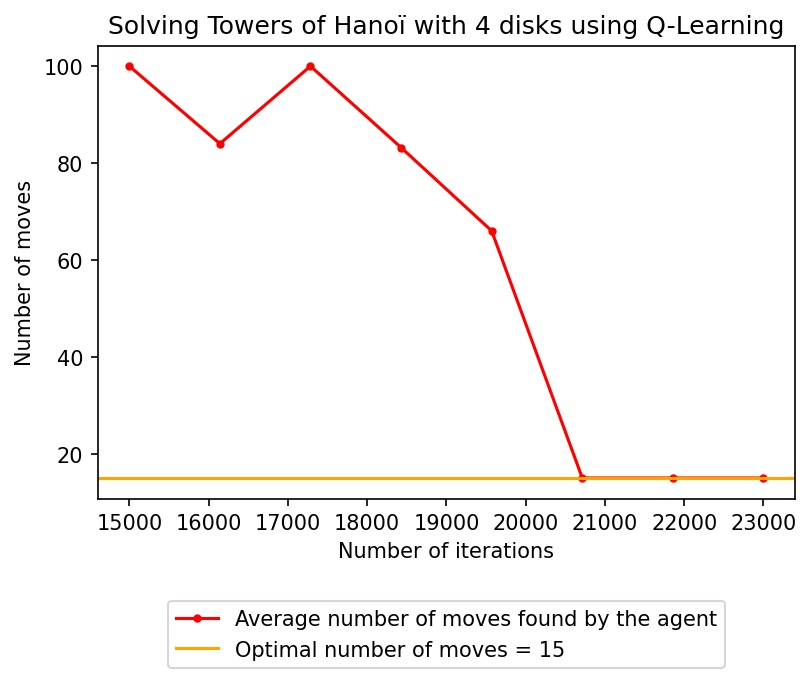
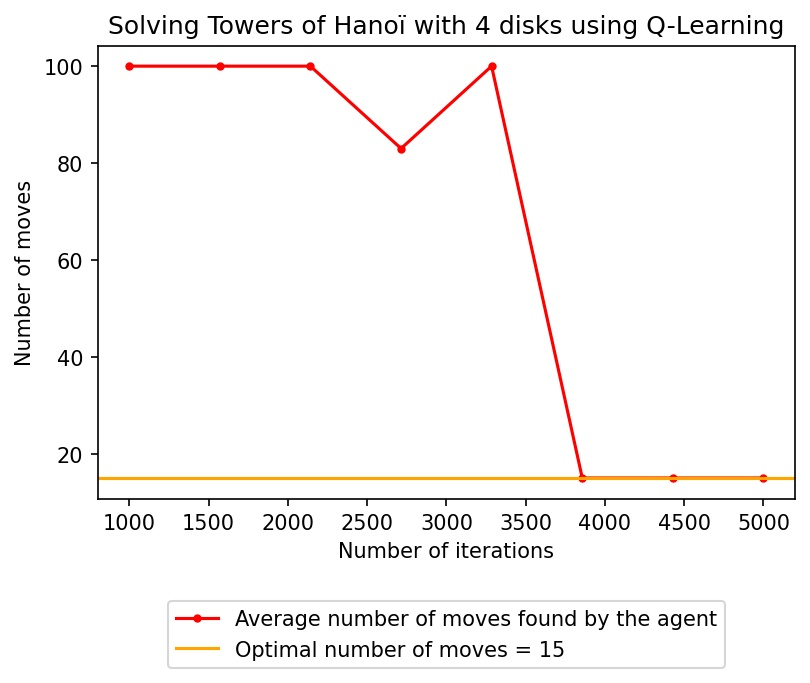
Learning rate optimization + better display of policy

diff --git a/Q-Learning/hanoi.py b/Q-Learning/hanoi.py
@@ -3,21 +3,26 @@ from enum import IntEnum
 from gamei import Gamei
 
 class Action(IntEnum):
-  R2LEFT  = 0
-  R2MID   = 1
-  L2RIGHT = 2
-  L2MID   = 3
-  M2RIGHT = 4
-  M2LEFT  = 5
+  L2MID   = 0
+  L2RIGHT = 1
+  M2LEFT  = 2
+  M2RIGHT = 3
+  R2MID   = 4
+  R2LEFT  = 5
 
 class Hanoi(Gamei):
   Gamei.nb_actions = 6
+
+  def actions_list():
+    return ["LEFT2MID", "LEFT2RIGHT", "MID2LEFT", "MID2RIGHT", "RIGHT2MID", "RIGHT2LEFT"]    
+
+    
   def __init__(self, N, state=None):
     if state is None:
       """
       A state is a tuple of size N. Each index corresponds
       to a disk, the first one is the smallest and the last one the biggest.
-      Each element corresponds to the pole where the disk at index i is located.
+      Each element corresponds to the peg where the disk at index i is located.
       """
       super().__init__(tuple([0] * N) )
     else:
@@ -30,19 +35,19 @@ class Hanoi(Gamei):
     self.final_state = tuple([2] * N)
     self.rewards[self.final_state] = 10
 
-    self.moves = [(0, 1), (0, 2), (1, 0), (1, 2), (2, 0), (2, 1)]
-    self.actions = [Action.L2MID, Action.L2RIGHT, Action.M2LEFT, Action.M2RIGHT, Action.R2LEFT, Action.R2MID]
+    self.moves = [(0, 1), (0, 2), (1, 0), (1, 2), (2, 1), (2, 0)]
+    self.actions = [Action.L2MID, Action.L2RIGHT, Action.M2LEFT, Action.M2RIGHT, Action.R2MID, Action.R2LEFT]
   
   def get_reward(self):
     return self.rewards[self.state]
   
-  def disc_on_pole(self, pole):
-    return [disc for disc in range(len(self.state)) if self.state[disc] == pole]
+  def disc_on_peg(self, peg):
+    return [disc for disc in range(len(self.state)) if self.state[disc] == peg]
 
   def is_move_allowed(self, move):
     disc_from, disc_to = None, None
-    disc_from = self.disc_on_pole(move[0])
-    disc_to = self.disc_on_pole(move[1])
+    disc_from = self.disc_on_peg(move[0])
+    disc_to = self.disc_on_peg(move[1])
 
     if disc_from == []:
       return False

diff --git a/Q-Learning/dungeon.py b/Q-Learning/dungeon.py
@@ -8,6 +8,10 @@ class Action(IntEnum):
 
 class Dungeon(Gamei):
   Gamei.nb_actions = 2
+
+  def actions_list():
+    return ["FORWARD", "BACKWARD"]
+
   def __init__(self, state=0):
     super().__init__(state)
     self.rewards = [2, 0, 0, 0, 10]

diff --git a/Q-Learning/gamei.py b/Q-Learning/gamei.py
@@ -4,6 +4,10 @@ class Gamei:
   def __init__(self, state):
     self.state = state
 
+  @staticmethod
+  def actions_list():
+    pass
+
   def get_reward(self):
     pass
 
